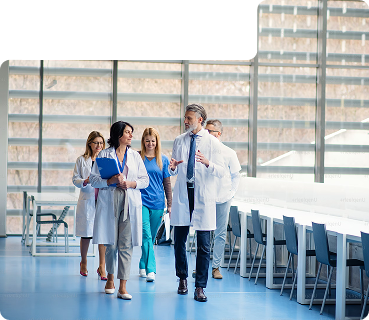
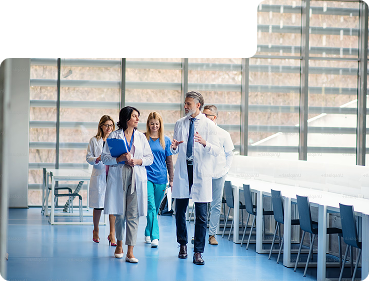
Refactored the code
- position absolute was giving layout issues and instead i have used negative margins to resolve these strange shift.

diff --git a/src/lib/Pages/Home/Constructions/home-hero.svelte b/src/lib/Pages/Home/Constructions/home-hero.svelte
@@ -25,19 +25,25 @@
 
 <style>
   .hero-container {
-    margin-top: 1em;
+    margin-top: 2em;
     width: 100%;
     position: relative;
     container-type: inline-size;
     display: flex;
     flex-direction: column;
     align-items: center;
+
+    @media (min-width: 48em) and (max-width: 64em) {
+        margin-top: 4em;
+    }
+
+    @media (min-width: 64em) {
+        margin-top: 5em;
+    }
   }
 
-
-  .hero-header {
-    position: absolute;
-    top: -0.3em;
+  article {
+    width: 100%;
   }
 
   span {
@@ -57,16 +63,21 @@
 
   .hero-header {
     grid-area: header;
+    margin-bottom: -2.5em;
   }
 
   .hero-image {
     grid-area: image;
+    max-height: 23.875em;
+    max-width: 100%;
+    height: 100%;
   }
 
   .hero-image-desktop {
     display: none;
     grid-area: image-desktop;
-    height: 22.625em;
+    height: auto;
+    width: 100%;
   }
 
   .hero-paragraph {
@@ -81,7 +92,6 @@
   p  { 
     font-size: var(--test-xs);
     font-weight: normal;
-    max-width: 22.5em;
     display: flex;
     flex-direction: column;
   }
@@ -115,22 +125,42 @@
     align-self: flex-end;
   }
   
-  @container (min-width: 20em) {
+  @container (width > 20em) {
     .hero-header {
-      top: 0;
+      margin-bottom: -3em;
+    }
+  
+    .hero-header h1 {
+      font-size: var(--text-lg);
     }
   }
 
-  @container (min-width: 23.438em) {
+  @container (width > 23.438em) {
     .hero-header {
-      top: 0.3em;
+      margin-bottom: -3.5em;
+    }
+  }
+
+  @container (width > 24.019em) {
+    .hero-header {
+      margin-bottom: -4.5em;
+    }
+
+    .hero-header h1 {
+      font-size: 2rem;
+    }
+  }
+
+  @container (width > 29.981em) {
+    .hero-header {
+      margin-bottom: -4.5em;
     }
   }
   
   /* Container size when reaching tablet size */
-  @container (min-width: 43.199em) {
+  @container (width > 43.199em) {
     .hero-header {
-      top: 1em;
+      margin: 0 0 -2.5em 1em;
     }
 
     .hero-header h1{
@@ -144,7 +174,7 @@
     .hero-container .hero-image-text{
       display: grid;
       align-items: end;
-      grid-template-columns: 21em 21em;
+      grid-template-columns: 0.7fr 1fr;
       grid-template-rows: 8em 16em;
       gap: 0.7em;
       grid-template-areas:
@@ -158,6 +188,7 @@
 
     .hero-container .hero-image-desktop {
       display: block;
+      height: 27em;
     }
 
     .hero-container .hero-paragraph{
@@ -166,7 +197,7 @@
       width: 21em;
       margin: unset;
       padding: 0.5em;
-      height: 17em;
+      height: 20em;
       border-radius: 0.7em;
       padding: 1.5em 1.5em;
       overflow: auto;
@@ -178,57 +209,61 @@
   }
 
   /* For laptop size */
-  @container (min-width: 47em) {
-    .hero-header {
-      top: 0.5em;
-    }
-
+  @container (width > 47em) {
     .hero-header h1{
       font-size: 3.438em;
     }
 
     .hero-container .hero-image-text{
-      grid-template-columns: 24.5em 24.5em;
-      grid-template-rows: 5.5em 18em;
+      grid-template-columns: 0.7fr 1fr;
+      grid-template-rows: 7.7em 16em;
     }    
 
     .hero-container .hero-paragraph{
-      width:  24.5em;
-      height: 16.5em;
-    }
-
-    .hero-container .hero-image {
-      width: 24.5em;
-    }    
-  }
-
-  @container (min-width: 65.25em) {
-    .hero-header {
-      top: 2em;
-    }
-
-    .hero-header h1{
-      font-size: 5em;
-    }
-
-    .hero-container .hero-image-text{
-      grid-template-columns: 32.5em 32.5em;
-      grid-template-rows: 13.5em 20em;
-    } 
-
-    .hero-container .hero-paragraph{
-      width: 32.5em;
-      height: 23.5em;
+      width: 100%;
     }
 
     p {
-      max-width: 31.875em;
-      font-size: 1.4em;
+      font-size: 1.125rem;
     }
 
-    .hero-container .hero-image-desktop {
-      width: 32.5em;
-      height: 31.875em;
-    }    
+    span {
+      font-weight: 200;
+    }
   }
+
+  @container (width > 64em) {
+    .hero-header {
+      margin: 0 0 5.5em 1em
+    }
+    .hero-container .hero-image-text{
+      grid-template-columns: 0.7fr 1fr;
+      grid-template-rows: 9.7em 16em;
+    }  
+
+    .hero-container .hero-image-desktop {
+      display: block;
+      height: 40em;
+    }
+
+    .hero-container .hero-paragraph{
+      height: 29.5em;
+    }
+
+    /* Block code 64em voor de nieuwe change */
+      /* @container (width > 64em) {
+    .hero-container .hero-image-text{
+      grid-template-columns: 0.7fr 1fr;
+      grid-template-rows: 9.7em 16em;
+    }  
+
+    .hero-container .hero-image-desktop {
+      display: block;
+      height: 30em;
+    }
+
+    .hero-container .hero-paragraph{
+      height: 22em;
+    } */
+    }
 </style>
